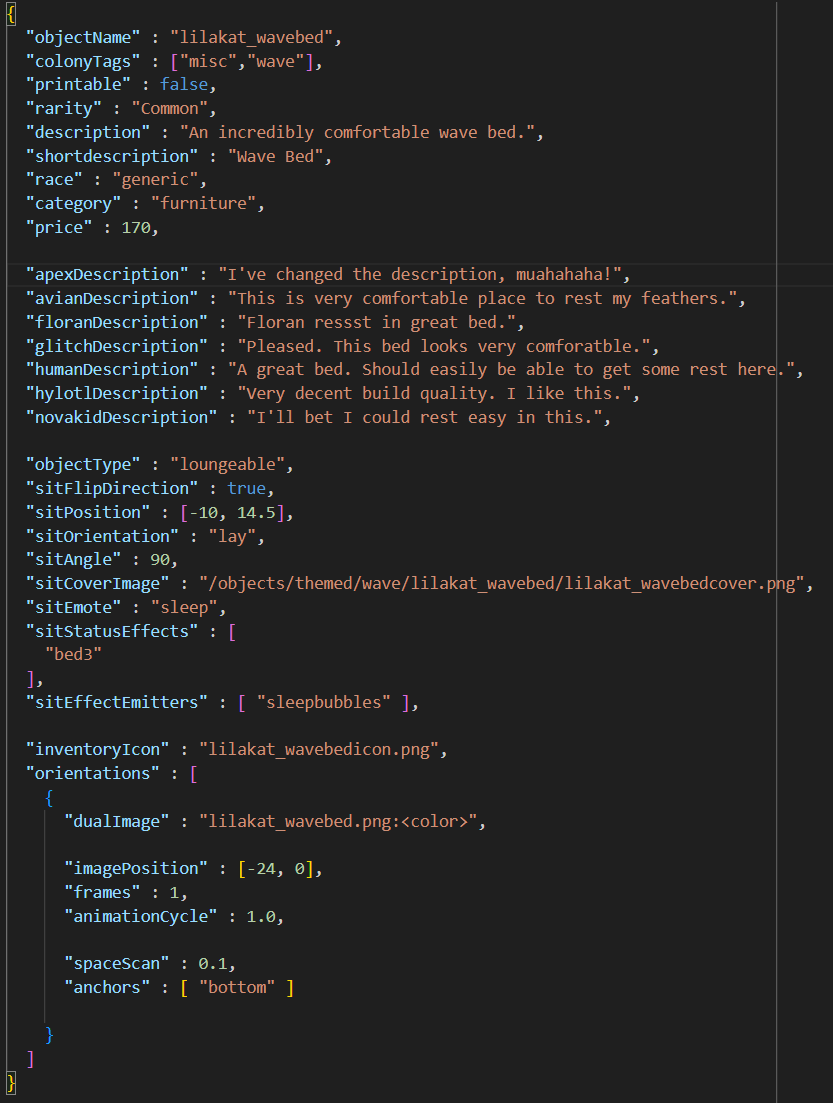
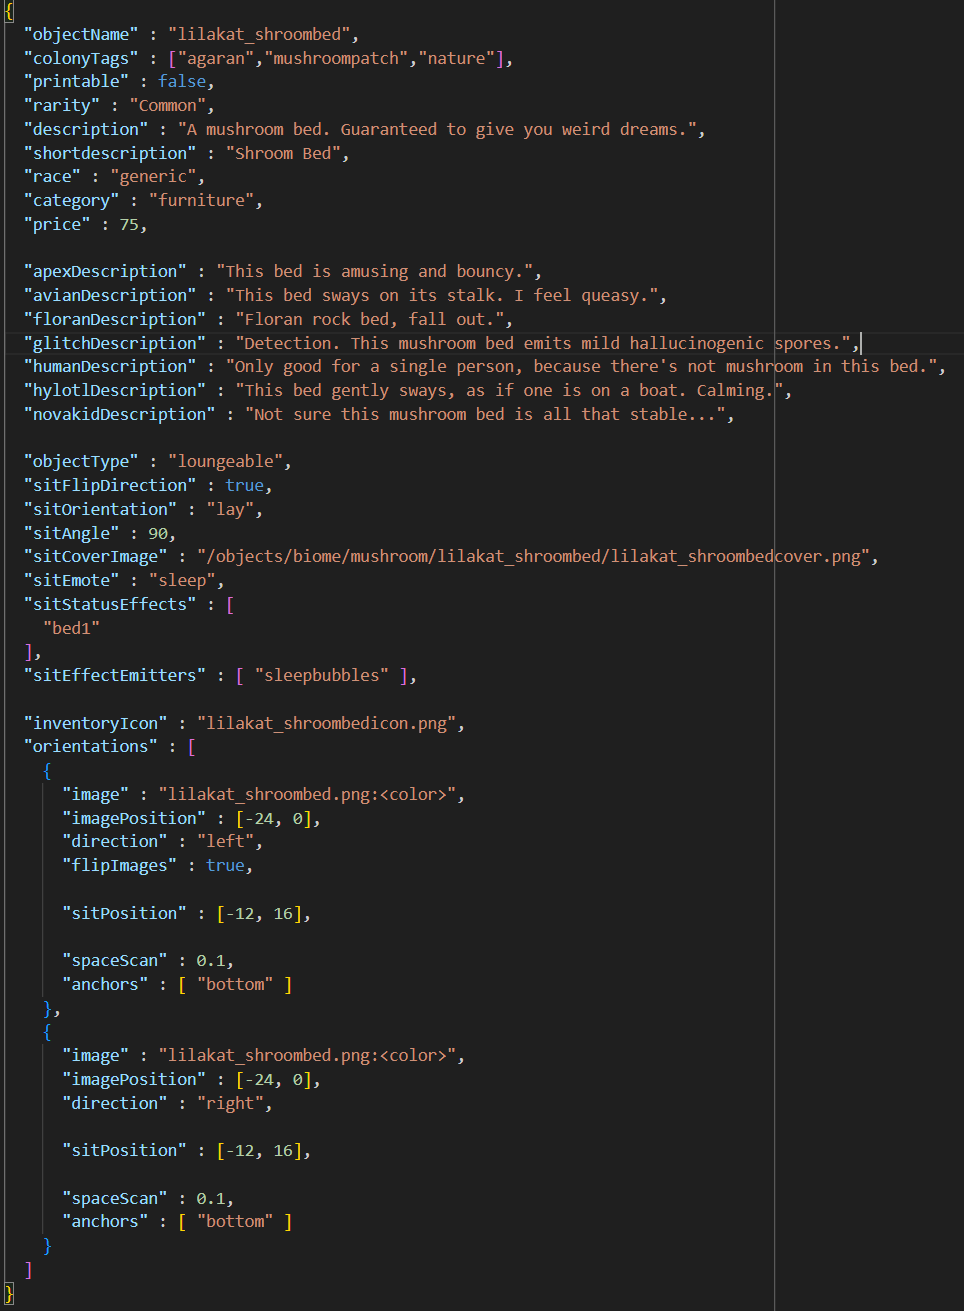
added how to create a new object

Changed region(s): [[0.0, 0.0, 0.9364, 1.0], [0.7179, 0.524, 0.9676, 0.5549]]

diff --git a/README.md b/README.md
@@ -18,7 +18,7 @@ While you're in this folder, create or go to the folder called 'mods'. Create a 
 
 # Finding the files to mod
 
-Now it's time to find the files you want to mod. In this example we'll change the appearance of the wave bed. Go to the [Starbound Wiki](https://starbounder.org/Starbound_Wiki) and locate the object. Scroll to the bottom of its page and you'll see a section called Data that has the object's name in it. 
+Now it's time to find the files you want to mod. In this example we'll change the appearance of the mushroom bed. Go to the [Starbound Wiki](https://starbounder.org/Starbound_Wiki) and locate the object. Scroll to the bottom of its page and you'll see a section called Data that has the object's name in it. 
 
 ![Alt text](./3.png) 
 
@@ -26,13 +26,13 @@ Click on it and it'll tell you where in the game files the object is located (ex
 
 ![Alt text](./4.png) 
 
-Remember the folder you created in the mods folder? Go there and create subfolders for the entire file path, starting from whatever comes after 'assets'. So in this case, create a folder called 'object' and in that, create another folder called 'themed', in that create *another* folder called 'wave', and in that create *yet another* folder called 'wavebed'. ~~Congrats, you're done making folders for this project.~~ Go into the final subfolder and copy in the pngs you want to change. Use some kind of sorcery to edit them and you're done. When you launch Starbound, they should look like the new images instead!
+Remember the folder you created in the mods folder? Go there and create subfolders for the entire file path, starting from whatever comes after 'assets'. So in this case, create a folder called 'object' and in that, create another folder called 'themed', in that create *another* folder called 'wave', and in that create *yet another* folder called 'shroombed'. ~~Congrats, you're done making folders for this project.~~ Go into the final subfolder and copy in the pngs you want to change. Use some kind of sorcery to edit them and you're done. When you launch Starbound, they should look like the new images instead!
 
 ---
 
 Now, generally you shouldn't do what I just explained, especially if you want to share your mod with others. Instead, you should just create your own version of the object to change (it's not much harder, I promise). 
 
-To create your own version of this bed, rename your 'wavebed' folder to something else that doesn't exist already, I'll use 'lilakat_wavebed'. It's good to use a prefix like 'lilakat_' on your mods so they don't conflict with other people's. Copy everything from '/UnpackedAssets/objects/themed/wave/wavebed' into '/mods/objects/themed/wave/lilakat_wavebed', and change every reference to 'wavebed' in all the filenames to 'lilakat_wavebed'. Now open lilakat_wavebed.object in your favourite text editor and change every reference to 'wavebed' into 'lilakat_wavebed' (using find and replace in VScode works great if you don't want to do it manually and worry about forgetting a reference!). You can also change the descriptions and anything else you want.
+To create your own version of this bed, rename your 'shroombed' folder to something else that doesn't exist already, I'll use 'lilakat_shroombed'. It's good to use a prefix like 'lilakat_' on your mods so they don't conflict with other people's. Copy everything from '/UnpackedAssets/objects/biome/mushroom/shroombed' into '/mods/objects/biome/mushroom/lilakat_shroombed', and change every reference to 'shroombed' in all the filenames to 'lilakat_shroombed'. Now open lilakat_shroombed.object in your favourite text editor and change every reference to 'shroombed' into 'lilakat_shroombed' (using find and replace in VScode works great if you don't want to do it manually and worry about forgetting a reference!). You can also change the descriptions and anything else you want.
 
 To recap, your mod folder should look like this now: 
 
@@ -42,7 +42,7 @@ and your .object file should look like this:
 
 ![Alt text](./6.png) 
 
-In game you can now spawn your new object by opening the console and typing '/spawnitem lilakat_wavebed 1'.
+In game you can now spawn your new object by opening the console and typing '/spawnitem lilakat_shroombed 1'.
 
 
 # Uploading to Steam
